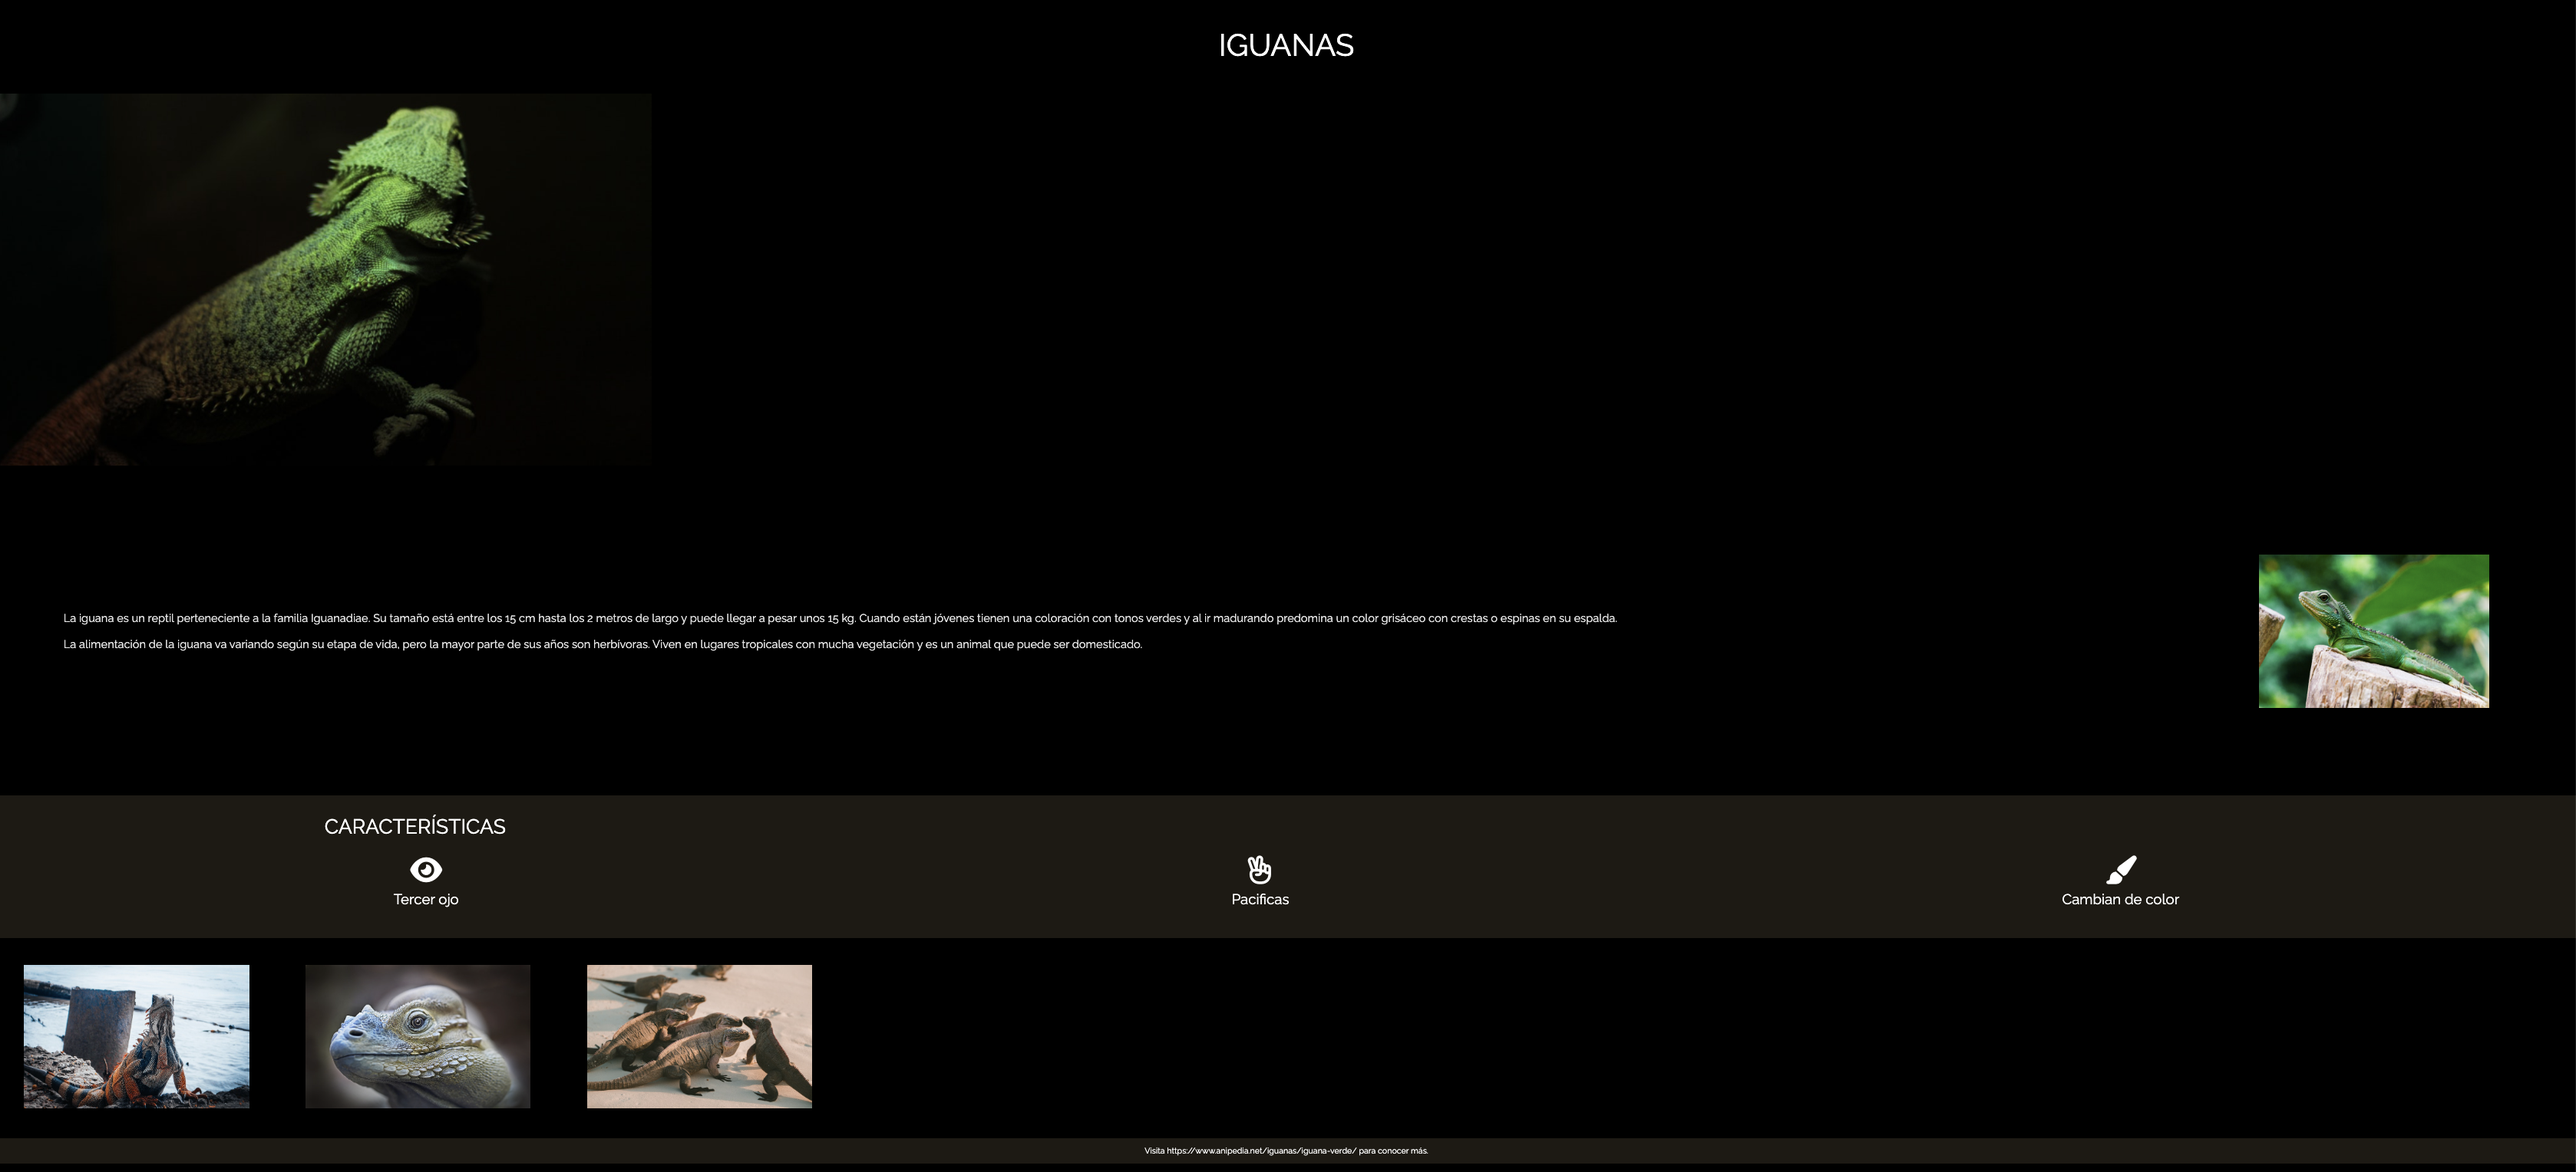
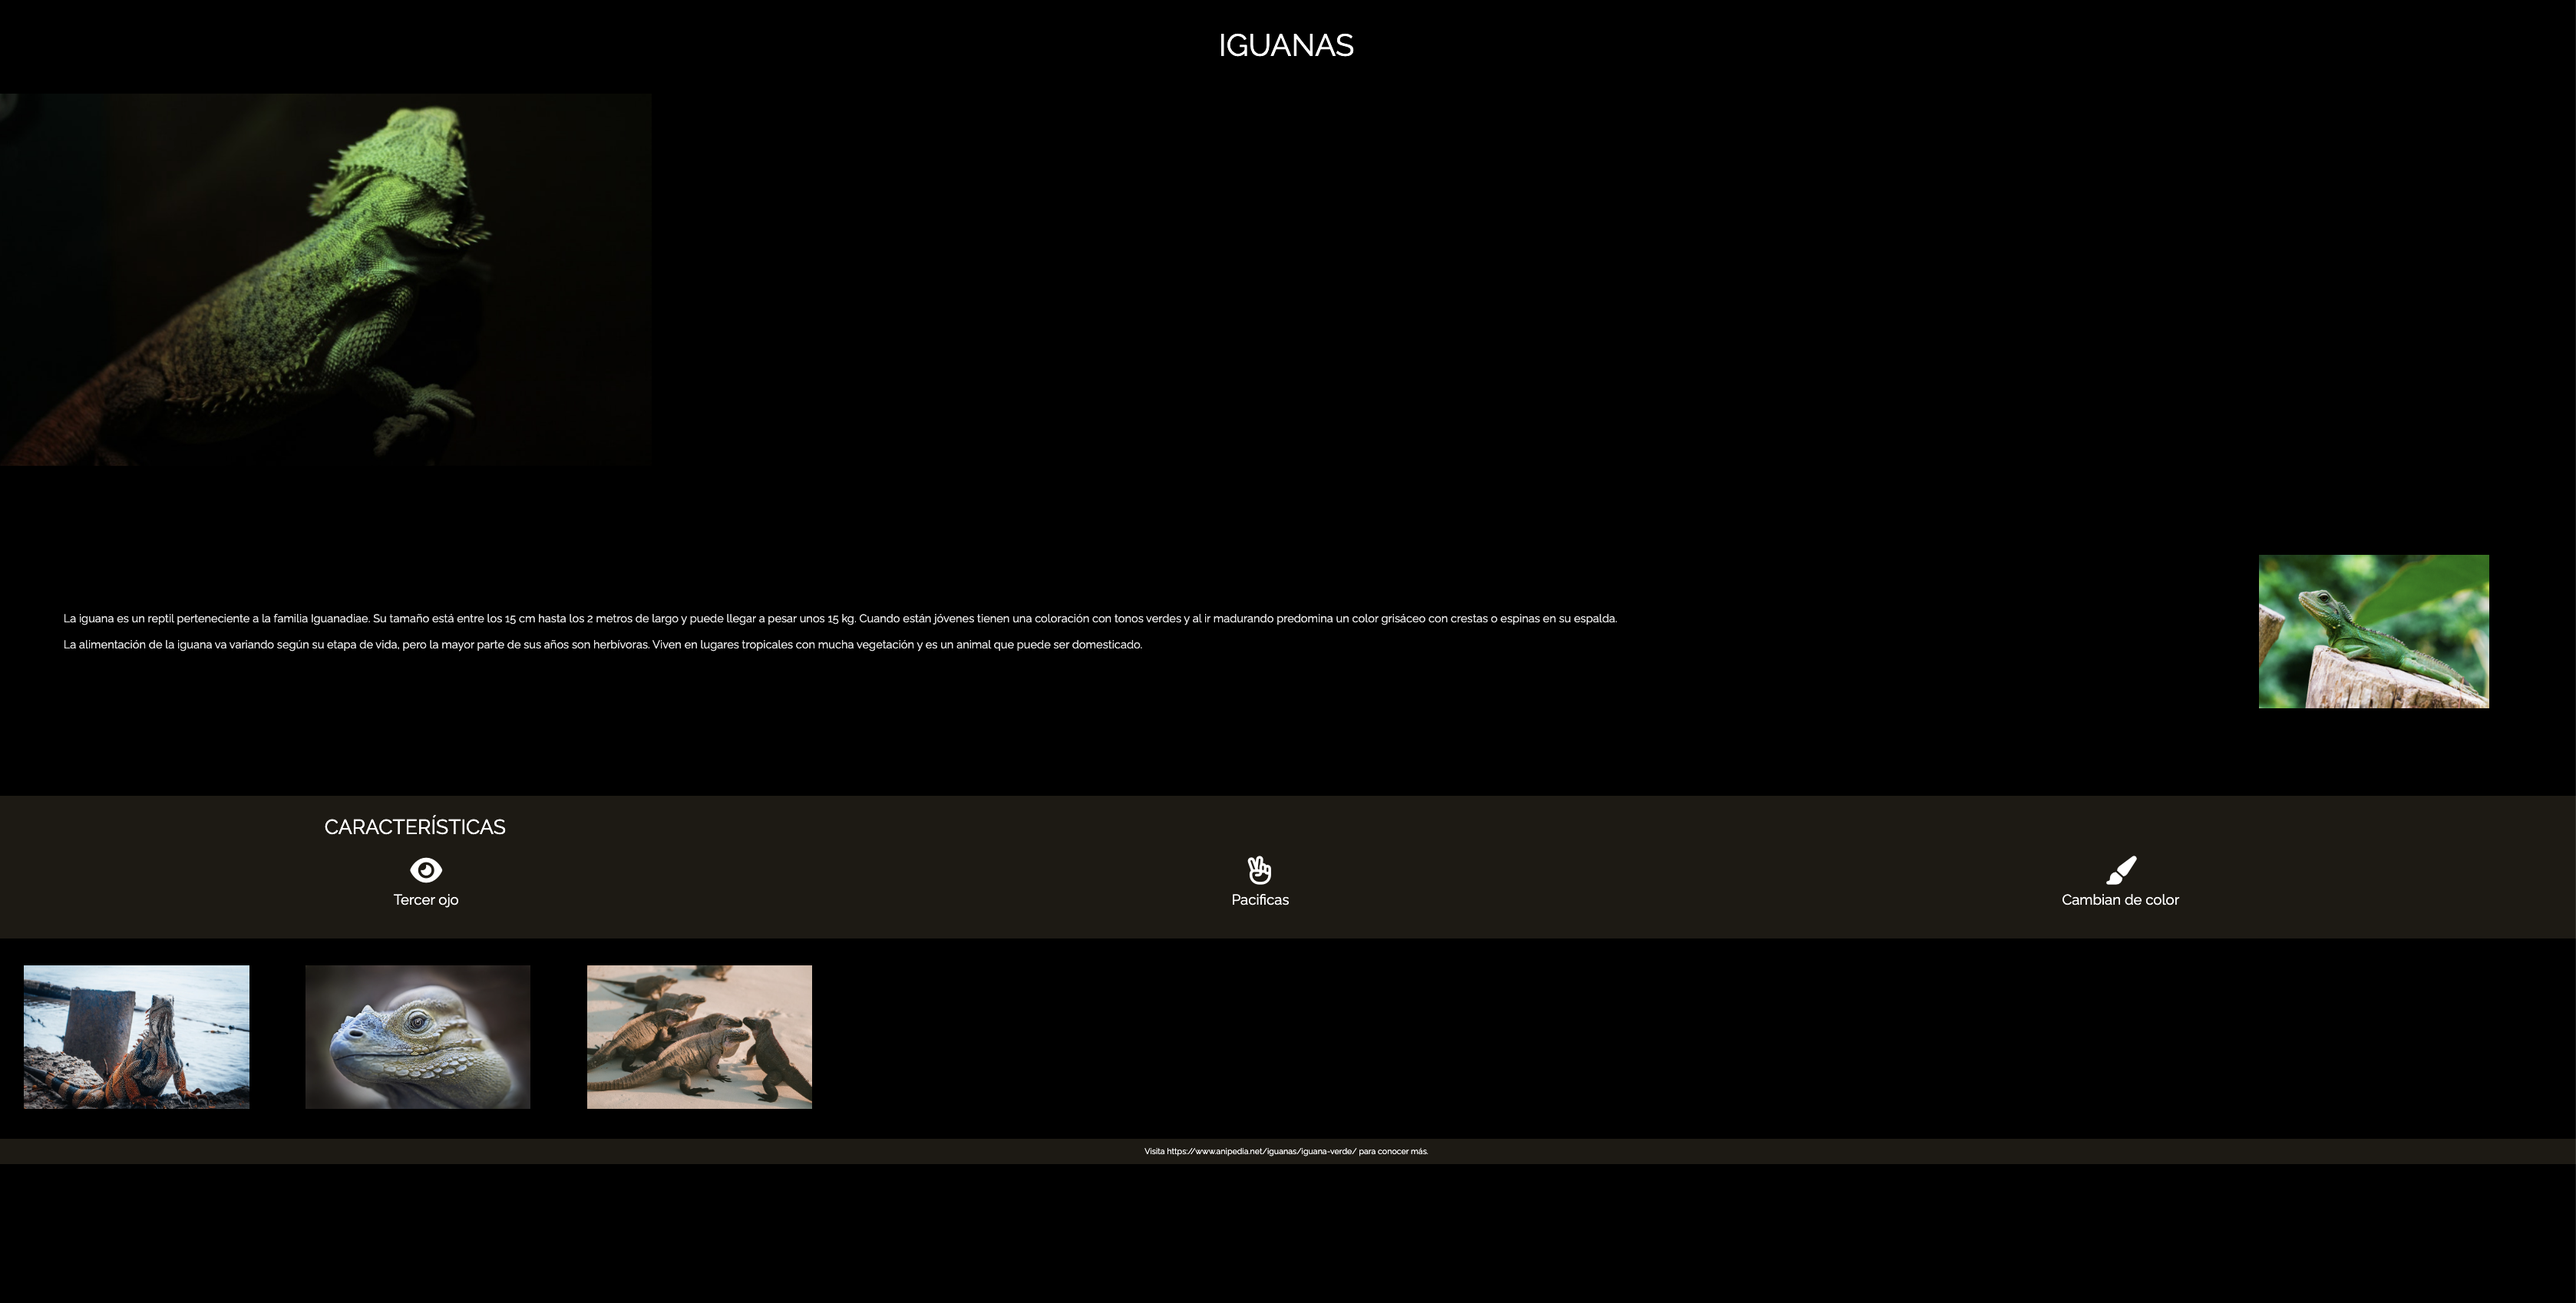
se incluye footer

diff --git a/index.html b/index.html
@@ -44,14 +44,14 @@
     </header>
     <main>
         <section class="content-about">
-            <h2>Perfil Profesional</h2>
+            <h2 class="titulo">Sobre Mí</h2>
             <p> Con más de 10 años de experiencia en atención al cliente, con un enfoque constante en la optimización de la calidad del servicio y la resolución eficaz de problemas. A lo largo de mi carrera, he perfeccionado habilidades clave como la comunicación efectiva, la empatía y la gestión de incidencias, lo que me permitió avanzar de manera exitosa hacia el área de Aseguramiento de la Calidad (QA). <br>
                 <br> En mi rol actual como QA, me especializo en identificar y corregir defectos, optimizar procesos y desarrollar estrategias de pruebas que aseguren la entrega de productos de alta calidad. Mi objetivo siempre ha sido garantizar una experiencia excepcional para el usuario final. Esta combinación de experiencia en atención al cliente y habilidades técnicas me ha permitido abordar los desafíos del aseguramiento de calidad desde una perspectiva integral, enfocándome tanto en las necesidades del cliente como en la excelencia del producto.
             </p>
         </section>
         
         <section class="content-esperience">
-            <h2 class="titulo">Experiencia Laboral</h2>
+            <h2 class="titulo"> Experiencia Laboral</h2>
         <div class="job">
             <h3> QA Analyst - Rindegastos </h3>
             <p> Las Condes, Región Metropolitana</p>
@@ -79,7 +79,7 @@
         </div>
         </section>
         <section class="content-education">
-            <h2 class="titulo">Certificaciones Profesionales</h2>
+            <h2 class="titulo"> Certificaciones Profesionales</h2>
             <div class="edu">
                 <h3>ISTQB (International Software Testing Qualifications Board)</h3>
                 <p><strong>Institución:</strong> ISTQB</p>
@@ -102,7 +102,7 @@
             </div>
         </section>
         <section class="content-skills">
-            <h2 class="titulo">Habilidades Técnicas</h2>
+            <h2 class="titulo"> Habilidades Técnicas</h2>
             <div class="habilidades-tec">
                 <ul>
                     <li>Pruebas de software (manual y automatizado)</li>
@@ -114,48 +114,43 @@
                 </ul>
             </div>
         </section>
-        <h2 class="titulo">Portafolio</h2>
-        <div class="about-box" id="portafolio">
-            <div class="portafolio-container">
-                <div class="portafolio-item">
-                    <a href="./Desafio1.html" target="_blank">
-                        <img src="./img/Desafio 1.png" alt="Desafio-1">
-                        <h3>Desafio I</h3>
-                        <p>Mi Curriculum Vitae en HTML</p>
-                    </a>
-                </div>
-                <div class="portafolio-item">
-                    <a href="./Desafio2.html" target="_blank">
-                        <img src="./img/Desafio 2.png" alt="Desafio 2">
-                        <h3>Desafio II</h3>
-                        <p>Construyendo un landing page.</p>
-                    </a>
-                </div>
-                <div class="portafolio-item">
-                    <a href="./Desafio3.html" target="_blank">
-                        <img src="./img/Desafio 3.png" alt="Desafio 3">
-                        <h3>Desafio III</h3>
-                        <p>Iguana page</p>
-                    </a>
-                </div>
-                <div class="portafolio-item">
-                    <a href="./Desafio4.html" target="_blank">
-                        <img src="./img/Desafio 4.png" alt="Desafio 4">
-                        <h3>Desafio IV</h3>
-                        <p>Desafío Cuppon</p>
-                    </a>
-                </div>
+        <section class="content-portafolio">
+             <h2 class="titulo"> Portafolio </h2>
+                <div class="portafolio-container">
+                    <div class="portafolio-item">
+                        <a href="./Desafio1.html" target="_blank">
+                            <img src="./img/Desafio 1.png" alt="Desafio-1">
+                            <h3>Desafio I</h3>
+                            <p>Mi Curriculum Vitae en HTML</p>
+                        </a>
+                    </div>
+                    <div class="portafolio-item">
+                        <a href="./Desafio2.html" target="_blank">
+                            <img src="./img/Desafio 2.png" alt="Desafio 2">
+                            <h3>Desafio II</h3>
+                            <p>Construyendo un landing page.</p>
+                        </a>
+                    </div>
+                    <div class="portafolio-item">
+                        <a href="./Desafio3.html" target="_blank">
+                            <img src="./img/Desafio 3.png" alt="Desafio 3">
+                            <h3>Desafio III</h3>
+                            <p>Iguana page</p>
+                        </a>
+                    </div>
+                    <div class="portafolio-item">
+                        <a href="./Desafio4.html" target="_blank">
+                            <img src="./img/Desafio 4.png" alt="Desafio 4">
+                            <h3>Desafio IV</h3>
+                            <p>Desafío Cuppon</p>
+                        </a>
+                    </div>
             </div>
-            
+        </section>
+        <footer class="footer">
+            <p>&copy; 2025 Sandra Painevilos Marchant. Todos los derechos reservados.</p>
+        </footer>    
     </main>
-    
-        
-        
-    
-</div>
-
-
-    
-      
+</div>  
 </body>
 </html>

diff --git a/assets/styles.css b/assets/styles.css
@@ -98,9 +98,9 @@ body {
 }
 .info-sidebar {
     font-size: 26px;
-    font-family: font-family: "Charm", serif;
+    font-family: font-family:"Charm", serif;
 }
-.content-about, .content-esperience, .content-education, .content-skills, .portafolio-container {
+.content-about, .content-esperience, .content-education, .content-skills, .content-portafolio, .footer {
     margin-bottom: 20px;
 }
 .content-esperience {
@@ -122,8 +122,10 @@ body {
     padding: 10px;
 }
 .titulo {
+    display: flex;
     color: brown;
-    justify-content: center;
+    justify-content:center;
+    align-items: center;
 }
 .content-education {
     margin-left: 290px;
@@ -161,22 +163,27 @@ body {
     padding: 10px;
     margin: 10px;
 }
+.content-portafolio {
+    margin-left: 290px;
+    background-color: white;
+    margin-top: 20px;
+}
 .portafolio-container {
     display: flex;
     flex-wrap: wrap;
     gap: 20px;
-    margin-left: 290px;
-    padding: 10px;
 }
 
 .portafolio-item {
-    width: calc(33.33% - 20px);
+    width: 20%;
     background-color: #fff;
-    border: 2px solid #3498db;
+    border: 2px solid #f78f5f;
     border-radius: 8px;
     overflow: hidden;
     box-shadow: 0px 4px 10px rgba(0, 0, 0, 0.1);
     transition: transform 0.3s ease;
+    margin-top: 20px;
+    margin: 26px;
 }
 
 .portafolio-item:hover {
@@ -190,7 +197,7 @@ body {
 
 .portafolio-item h3 {
     font-size: 18px;
-    color: #3498db;
+    color: brown;
     padding: 15px;
 }
 
@@ -198,4 +205,12 @@ body {
     padding: 0 15px 15px;
     color: #333;
     font-size: 14px;
+}
+.footer {
+    text-align: center;
+    justify-content: center;
+    margin-left: 280px;
+    color: white;
+    margin-top: 40px;
+    background-color: #f78f5f;
 }
